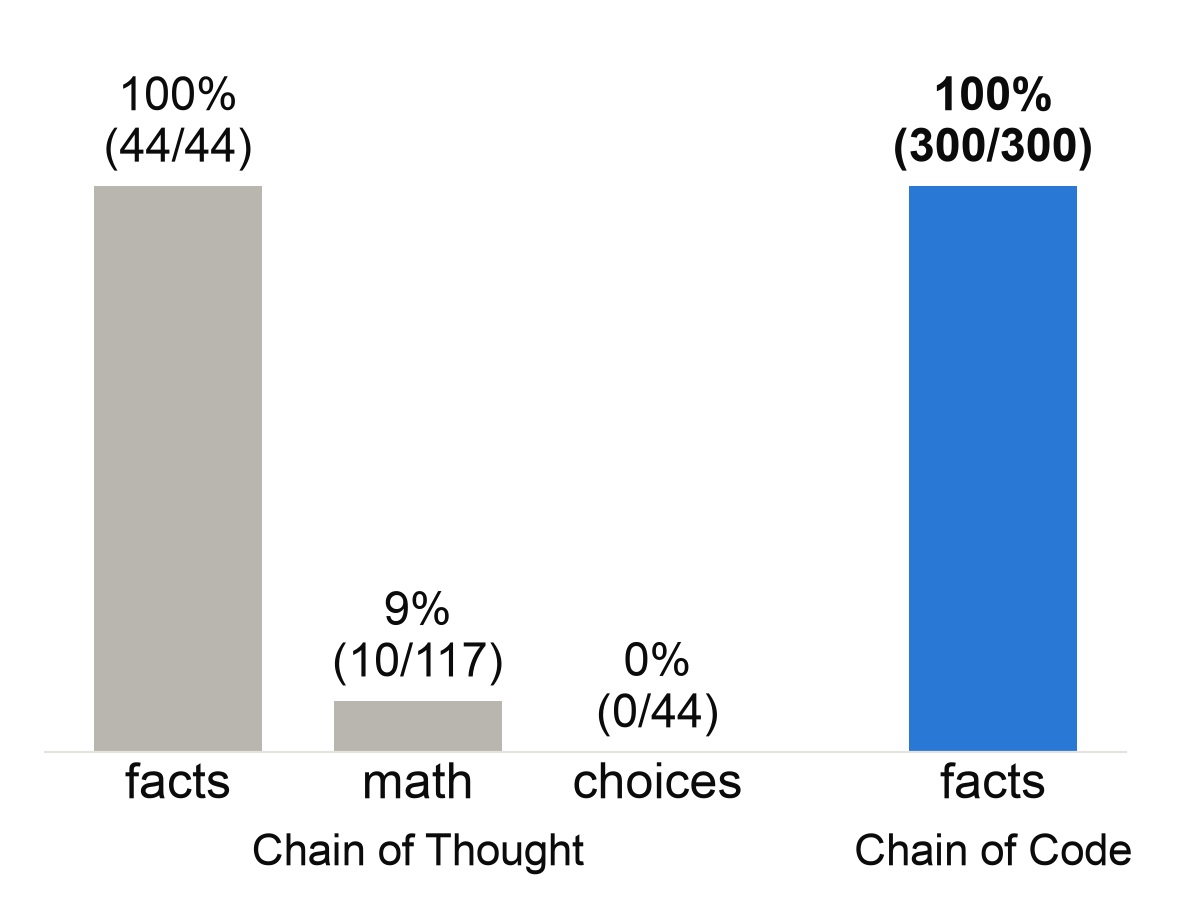
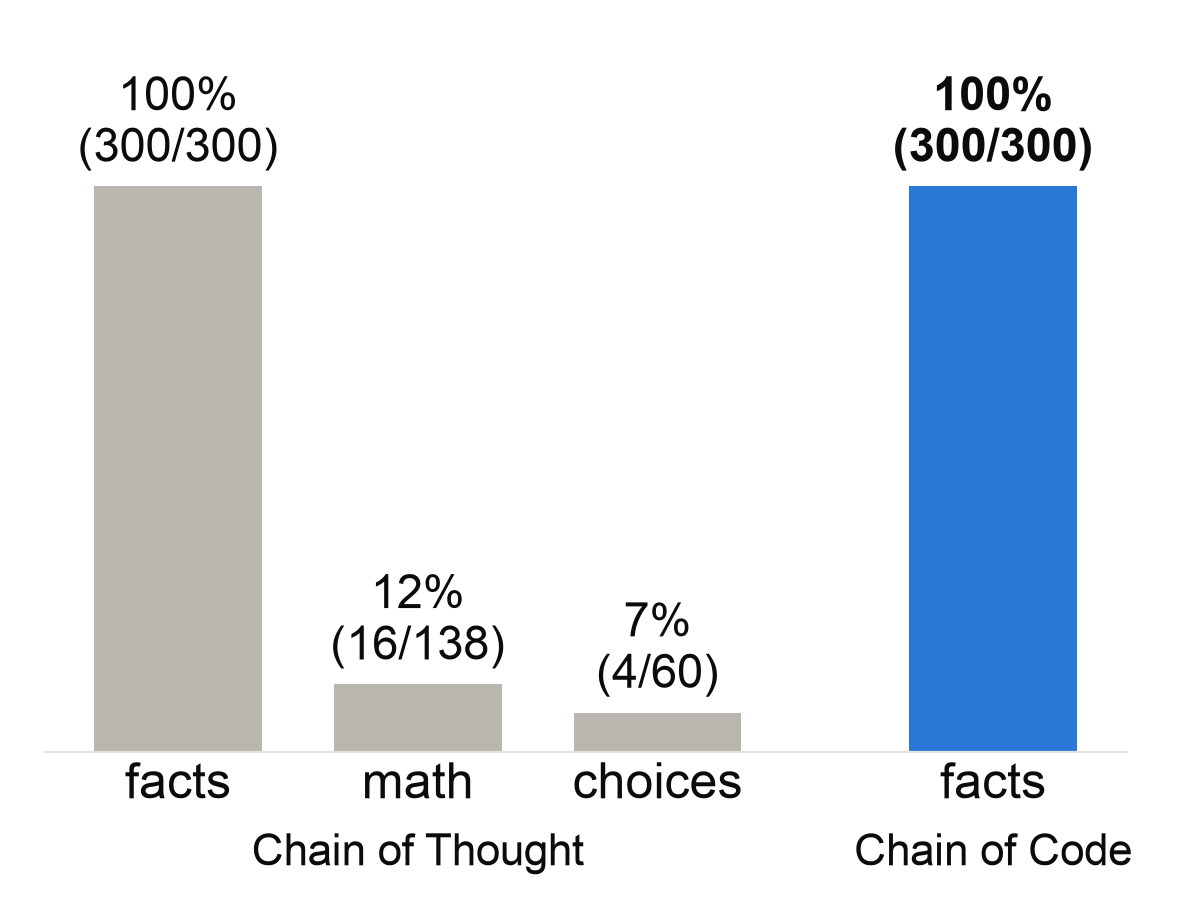
Demo slide: Chain of Thought bars use the prompt that writes down birthdays
make_charts.py reads Chain of Thought from rehearse_lookups.py's results
(1/30 answers; birth dates 300/300, math 16/138, choices 4/60). Summary
slide gives the demo result as percentages and lists two limitations.

Changed region(s): [[0.4625, 0.6391, 0.6167, 0.8217], [0.2775, 0.6087, 0.4317, 0.7609], [0.0617, 0.1217, 0.2467, 0.1826]]

diff --git a/docs/slides.html b/docs/slides.html
@@ -361,7 +361,7 @@ Dec 2023</p>
 <li>LLMs know facts, but are shaky at exact math</li>
 <li>Chain of Code: the LLM writes code; Python runs what it can, the LLM emulates the rest</li>
 <li>Paper: 84% on BIG-Bench Hard, vs.&nbsp;72% for Chain of Thought</li>
-<li>Our demo (7B model): 100% vs.&nbsp;10%, with the same facts, but Python doing the math</li>
+<li>Our demo (7B model): 100% vs.&nbsp;3-10%, with the same facts, but Python doing the math</li>
 <li>Limitations:
 <ul>
 <li>works best when the examples come from the same kind of problem</li>

diff --git a/make_charts.py b/make_charts.py
@@ -1,7 +1,10 @@
 """Draw the results bar charts for the slides.
 
 The first two use data from Li et al., ICML 2024; the demo charts read our
-own results from results/random-30-seed-2026.csv (made by rehearse.py).
+own results: Direct and Chain of Code from results/random-30-seed-2026.csv
+(made by rehearse.py), and Chain of Thought, using the prompt that writes
+down each birthday first, from results/cot-lookups-random-30-seed-2026.csv
+(made by rehearse_lookups.py).
 
 Usage: uv run --with matplotlib make_charts.py
 """
@@ -74,13 +77,18 @@ def ablation_chart():
     fig.savefig("images/results-ablation.png", transparent=True)
 
 
-def demo_charts(path="results/random-30-seed-2026.csv"):
+def demo_charts(path="results/random-30-seed-2026.csv", cot_path="results/cot-lookups-random-30-seed-2026.csv"):
     """Our demo on 30 random dates: answers right, and steps right."""
     with open(path) as f:
         rows = list(csv.DictReader(f))
+    with open(cot_path) as f:
+        cot_rows = list(csv.DictReader(f))
 
-    def total(column):
+    def total(column, rows=rows):
         return sum(int(r[column]) for r in rows)
+
+    def cot(column):
+        return total(column, cot_rows)
 
     def bars(items, filename, groups=()):
         """groups: (label, x) pairs written under the bar labels, naming the method."""
@@ -103,11 +111,11 @@ def demo_charts(path="results/random-30-seed-2026.csv"):
 
     n = len(rows)
     bars([("Direct", total("Direct correct"), n, False),
-          ("Chain of\nThought", total("Chain of Thought correct"), n, False),
+          ("Chain of\nThought", cot("right"), len(cot_rows), False),
           ("Chain of\nCode", total("Chain of Code correct"), n, True)], "demo-answers.png")
-    bars([("facts", total("CoT fact right"), total("CoT fact checked"), False),
-          ("math", total("CoT math right"), total("CoT math checked"), False),
-          ("choices", total("CoT choice right"), total("CoT choice checked"), False),
+    bars([("facts", cot("births right"), cot("births checked"), False),
+          ("math", cot("math right"), cot("math checked"), False),
+          ("choices", cot("choice right"), cot("choice checked"), False),
           ("facts", total("CoC birthdays right"), total("CoC birthdays checked"), True)], "demo-steps.png",
          groups=[("Chain of Thought", 1), ("Chain of Code", 3.4)])
 
